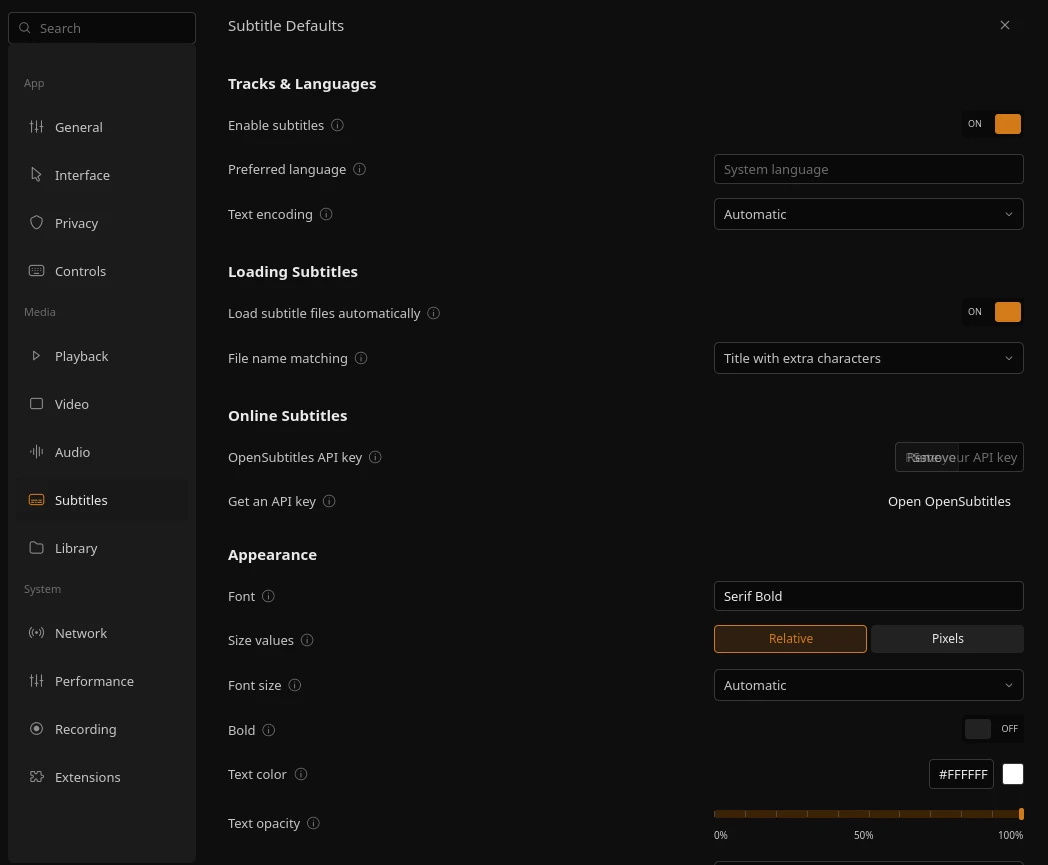
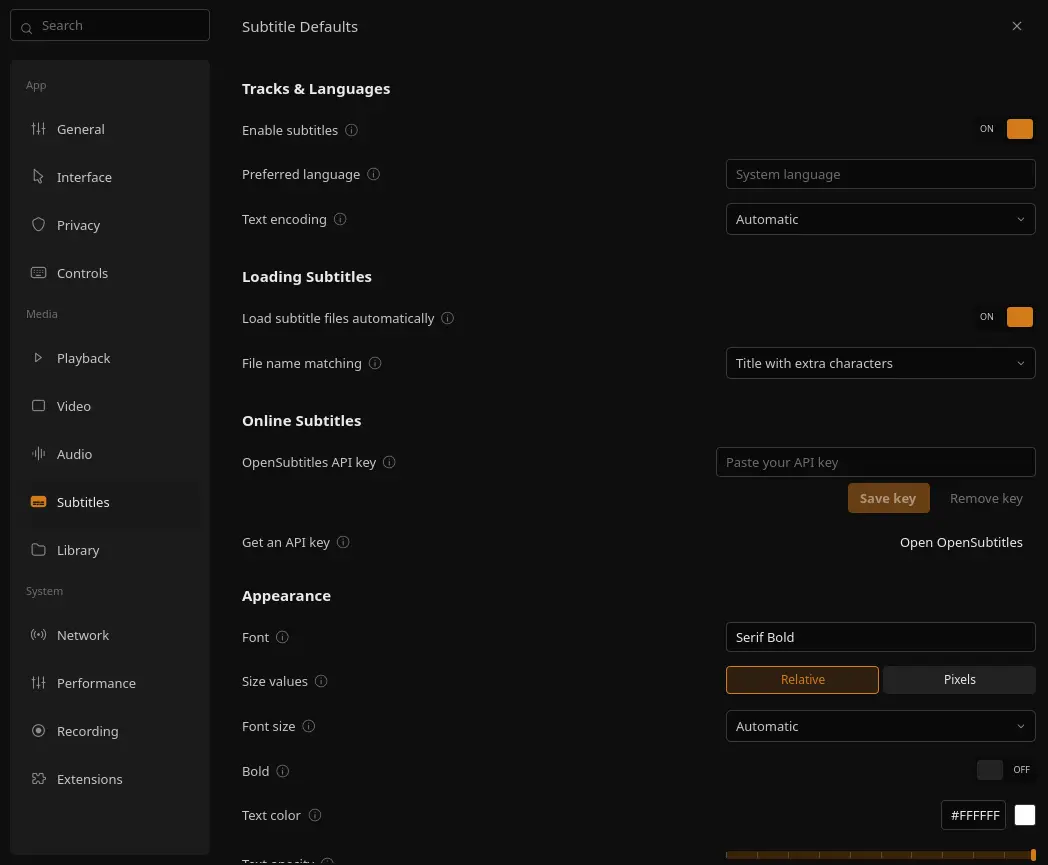
docs: refresh subtitle settings capture [skip ci]

diff --git a/docs/figma-parity.md b/docs/figma-parity.md
@@ -217,7 +217,7 @@ OpenSubtitles key and mini-player EOF follow-up (2026-10-25): the desktop API-ke
 Playback idle-inhibition follow-up (2026-10-29): VLC 3 source distinguishes `VLC_INHIBIT_AUDIO` (prevent suspend) from `VLC_INHIBIT_VIDEO` (prevent suspend and display blank/lock); its `disable-screensaver` setting separately documents video playback. Neo follows that policy: active audio requests suspend inhibition only; active video also inhibits display idle when `disable-screensaver` is enabled. In a real Cinnamon session, D-Bus reported VLC flags `4` during audio, flags `12` plus a ScreenSaver inhibit during video, and both VLC inhibitors cleared on pause. This caught and fixed a missing `tracksChanged` connection that had left video at audio-only inhibition. The rebuilt plugin is installed and the running Neo session loaded it. The D-Bus state confirms the idle request; waiting through the machine's full idle timeout remains unverified.
 Home screen comparison (2026-10-29): Figma MCP rendered node `6261:15078` at 1600×900 from its 1920×1080 frame. A fresh 1920×1040 real-window capture aligns the 210 px expanded rail, content start, Home heading and first-shelf card bounds after accounting for the 40 px titlebar. The Figma reference shows 110 indexed items and its own episode artwork; this desktop shows zero indexed items and the user’s recent media, so the check confirms layout geometry only. The source export still contains no corresponding episode posters or video files.
 
-OpenSubtitles API-key visual follow-up (2026-10-29): a real 1048×865 capture showed the inline field starting 124 px left of neighboring controls. The field and actions now follow the existing settings form language, with Save key as the primary action below the aligned 320 px field and Remove key as a secondary action. At 720×560 the label, explanation, full-width password field and actions remain inside the scroll viewport. The focused desktop and compact QML geometry probes both pass; the installed VLC Neo session was relaunched with this layout.
+OpenSubtitles API-key visual follow-up (2026-10-29): a real 1048×865 capture showed the inline field starting 124 px left of neighboring controls. The field and actions now follow the existing settings form language, with Save key as the primary action below the aligned 320 px field and Remove key as a secondary action. At 720×560 the label, explanation, full-width password field and actions remain inside the scroll viewport. The focused desktop and compact QML geometry probes both pass; the installed VLC Neo session was relaunched with this layout. `screenshots/settings-subtitles.webp` now contains the post-fix 1048×865 capture; the previous image predated the API-key layout correction.
 
 Cross-distro CI follow-up (2026-10-29): run [`40801750828`](https://github.com/alexandreolives/vlc-neo/actions/runs/40801750828) for `b486a71` failed during build on both Arch and Mint because `platform_pip_test` includes `platform.hpp`, which now uses QtDBus, but the test target did not link `Qt6::DBus`. The dependency is now declared for that target; the focused `platform_pip` CTest passes locally. The 50,000-row probe was not reached in that failed run and awaits the next cross-distro CI result.
 
